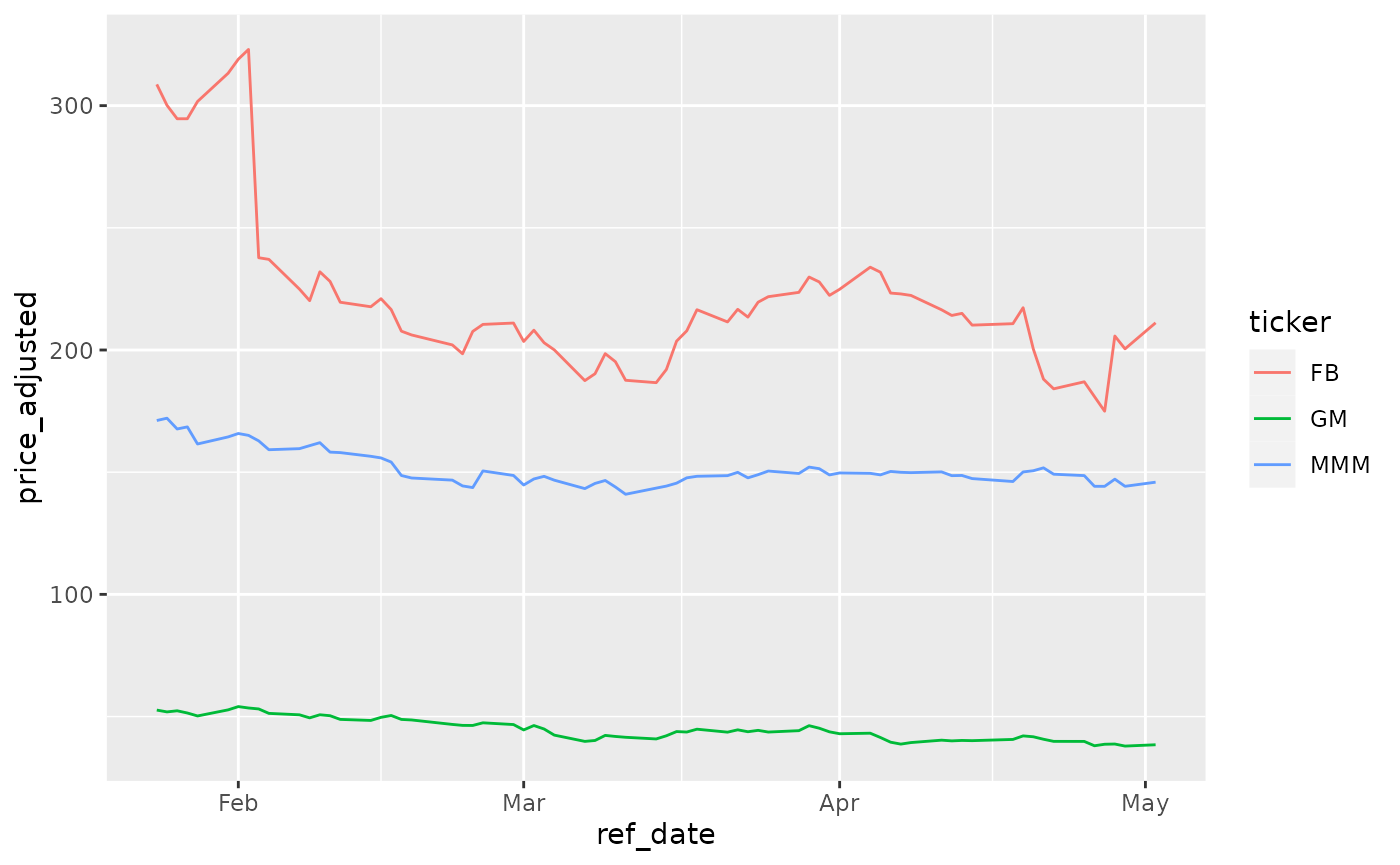
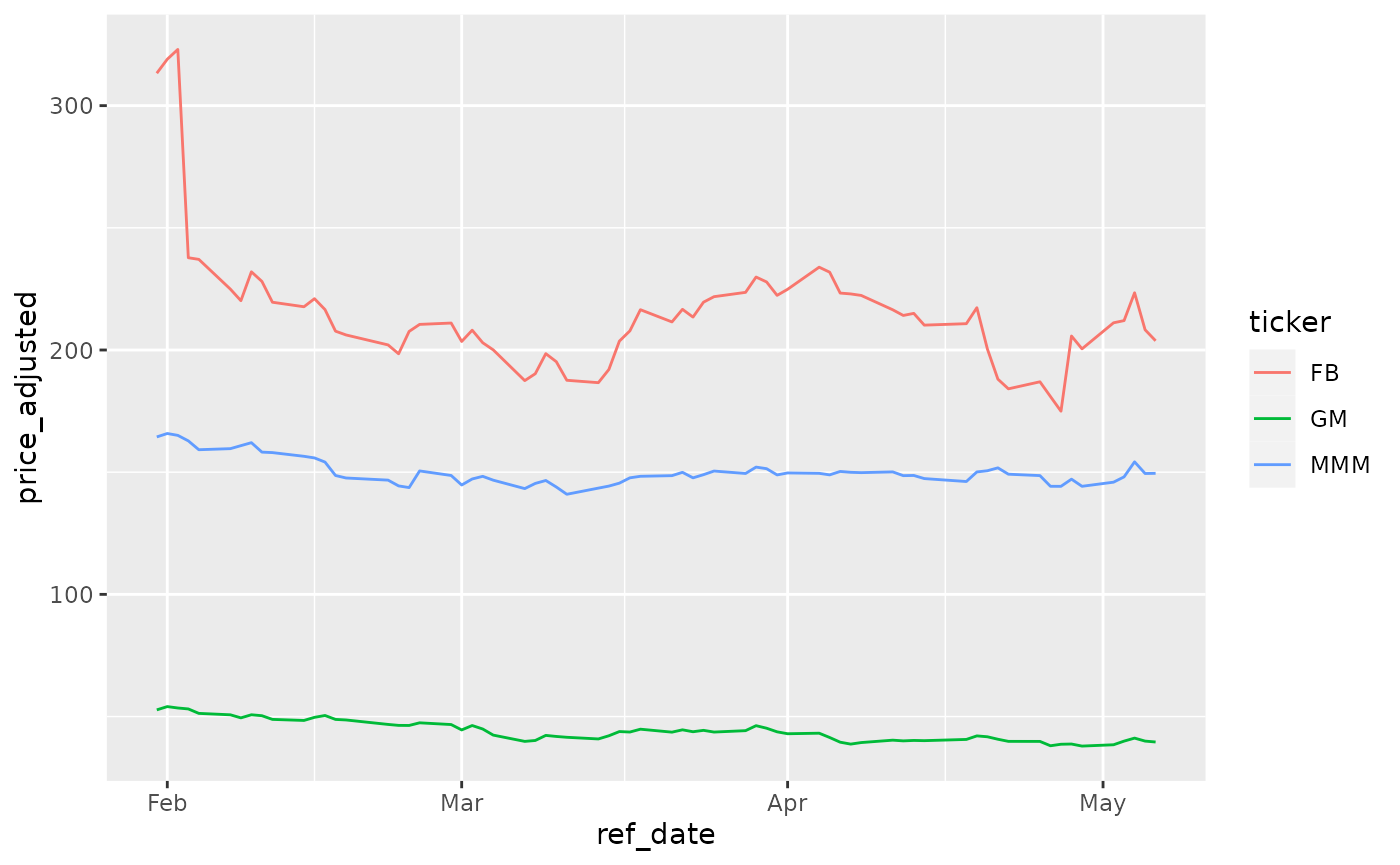
Deploying to gh-pages from @ msperlin/yfR@2e236b8766b813a72aebbd808d26d2148c5c2597 🚀

diff --git a/articles/yf-vignette.html b/articles/yf-vignette.html
@@ -81,7 +81,7 @@
       <img src="../logo.png" class="logo" alt=""><h1>Using yfR</h1>
                         <h4 data-toc-skip class="author">Marcelo Perlin</h4>
             
-            <h4 data-toc-skip class="date">2022-05-03</h4>
+            <h4 data-toc-skip class="date">2022-05-09</h4>
       
       <small class="dont-index">Source: <a href="https://github.com/msperlin/yfR/blob/HEAD/vignettes/yf-vignette.Rmd" class="external-link"><code>vignettes/yf-vignette.Rmd</code></a></small>
       <div class="d-none name"><code>yf-vignette.Rmd</code></div>
@@ -108,14 +108,14 @@
                      first_date <span class="op">=</span> <span class="va">first_date</span>,
                      last_date <span class="op">=</span> <span class="va">last_date</span><span class="op">)</span></code></pre></div>
 <pre><code><span class="co">## </span></code></pre>
-<pre><code><span class="co">## ── <span style="font-weight: bold;">Running yfR for 1 stocks | 2022-04-03 --&gt; 2022-05-03 (30 days)</span> ──</span></code></pre>
+<pre><code><span class="co">## ── <span style="font-weight: bold;">Running yfR for 1 stocks | 2022-04-09 --&gt; 2022-05-09 (30 days)</span> ──</span></code></pre>
 <pre><code><span class="co">## </span></code></pre>
 <pre><code><span class="co">## <span style="color: #00BBBB;">ℹ</span> Downloading data for benchmark ticker ^GSPC</span></code></pre>
 <pre><code><span class="co">## <span style="color: #00BBBB;">ℹ</span> (1/1) Fetching data for FB</span></code></pre>
 <pre><code><span class="co">## <span style="color: #BBBB00;">!</span>  - not cached</span></code></pre>
 <pre><code><span class="co">## <span style="color: #00BB00;">✔</span>  - cache saved successfully</span></code></pre>
-<pre><code><span class="co">## <span style="color: #00BB00;">✔</span>  - got 20 valid rows (2022-04-04 --&gt; 2022-05-02)</span></code></pre>
-<pre><code><span class="co">## <span style="color: #00BB00;">✔</span>  - got 100% of valid prices -- Nice!</span></code></pre>
+<pre><code><span class="co">## <span style="color: #00BB00;">✔</span>  - got 19 valid rows (2022-04-11 --&gt; 2022-05-06)</span></code></pre>
+<pre><code><span class="co">## <span style="color: #00BB00;">✔</span>  - got 100% of valid prices -- Time for some tea?</span></code></pre>
 <pre><code><span class="co">## <span style="color: #00BBBB;">ℹ</span> Binding price data</span></code></pre>
 <div class="sourceCode" id="cb12"><pre class="downlit sourceCode r">
 <code class="sourceCode R"><span class="co"># output is a tibble with data</span>
@@ -123,12 +123,12 @@
 <pre><code><span class="co">## <span style="color: #949494;"># A tibble: 6 × 11</span></span>
 <span class="co">##   ticker ref_date   price_open price_high price_low price_close   volume</span>
 <span class="co">##   <span style="color: #949494; font-style: italic;">&lt;chr&gt;</span>  <span style="color: #949494; font-style: italic;">&lt;date&gt;</span>          <span style="color: #949494; font-style: italic;">&lt;dbl&gt;</span>      <span style="color: #949494; font-style: italic;">&lt;dbl&gt;</span>     <span style="color: #949494; font-style: italic;">&lt;dbl&gt;</span>       <span style="color: #949494; font-style: italic;">&lt;dbl&gt;</span>    <span style="color: #949494; font-style: italic;">&lt;dbl&gt;</span></span>
-<span class="co">## <span style="color: #BCBCBC;">1</span> FB     2022-04-04       226.       234.      226.        234. 28<span style="text-decoration: underline;">054</span>800</span>
-<span class="co">## <span style="color: #BCBCBC;">2</span> FB     2022-04-05       234.       237.      231.        232. 29<span style="text-decoration: underline;">727</span>200</span>
-<span class="co">## <span style="color: #BCBCBC;">3</span> FB     2022-04-06       227.       229.      221.        223. 28<span style="text-decoration: underline;">995</span>100</span>
-<span class="co">## <span style="color: #BCBCBC;">4</span> FB     2022-04-07       224.       226.      219.        223. 21<span style="text-decoration: underline;">037</span>200</span>
-<span class="co">## <span style="color: #BCBCBC;">5</span> FB     2022-04-08       222.       225.      220.        222. 18<span style="text-decoration: underline;">375</span>700</span>
-<span class="co">## <span style="color: #BCBCBC;">6</span> FB     2022-04-11       218.       221.      215.        216. 20<span style="text-decoration: underline;">516</span>600</span>
+<span class="co">## <span style="color: #BCBCBC;">1</span> FB     2022-04-11       218.       221.      215.        216. 20<span style="text-decoration: underline;">516</span>600</span>
+<span class="co">## <span style="color: #BCBCBC;">2</span> FB     2022-04-12       220.       222.      213.        214. 20<span style="text-decoration: underline;">128</span>800</span>
+<span class="co">## <span style="color: #BCBCBC;">3</span> FB     2022-04-13       212.       217.      211.        215. 19<span style="text-decoration: underline;">231</span>800</span>
+<span class="co">## <span style="color: #BCBCBC;">4</span> FB     2022-04-14       215.       215.      210         210. 18<span style="text-decoration: underline;">379</span>500</span>
+<span class="co">## <span style="color: #BCBCBC;">5</span> FB     2022-04-18       210        213.      208.        211. 16<span style="text-decoration: underline;">580</span>800</span>
+<span class="co">## <span style="color: #BCBCBC;">6</span> FB     2022-04-19       211.       218.      209         217. 20<span style="text-decoration: underline;">089</span>900</span>
 <span class="co">## <span style="color: #949494;"># … with 4 more variables: price_adjusted &lt;dbl&gt;, ret_adjusted_prices &lt;dbl&gt;,</span></span>
 <span class="co">## <span style="color: #949494;">#   ret_closing_prices &lt;dbl&gt;, cumret_adjusted_prices &lt;dbl&gt;</span></span></code></pre>
 </div>
@@ -147,24 +147,24 @@
                      first_date <span class="op">=</span> <span class="va">first_date</span>,
                      last_date <span class="op">=</span> <span class="va">last_date</span><span class="op">)</span></code></pre></div>
 <pre><code><span class="co">## </span></code></pre>
-<pre><code><span class="co">## ── <span style="font-weight: bold;">Running yfR for 3 stocks | 2022-01-23 --&gt; 2022-05-03 (100 days)</span> ──</span></code></pre>
+<pre><code><span class="co">## ── <span style="font-weight: bold;">Running yfR for 3 stocks | 2022-01-29 --&gt; 2022-05-09 (100 days)</span> ──</span></code></pre>
 <pre><code><span class="co">## </span></code></pre>
 <pre><code><span class="co">## <span style="color: #00BBBB;">ℹ</span> Downloading data for benchmark ticker ^GSPC</span></code></pre>
 <pre><code><span class="co">## <span style="color: #00BBBB;">ℹ</span> (1/3) Fetching data for FB</span></code></pre>
-<pre><code><span class="co">## <span style="color: #00BB00;">✔</span>  - found cache file (2022-04-04 --&gt; 2022-05-02)</span></code></pre>
+<pre><code><span class="co">## <span style="color: #00BB00;">✔</span>  - found cache file (2022-04-11 --&gt; 2022-05-06)</span></code></pre>
 <pre><code><span class="co">## <span style="color: #BBBB00;">!</span>  - need new data (cache doesnt match query)</span></code></pre>
-<pre><code><span class="co">## <span style="color: #00BB00;">✔</span>  - got 69 valid rows (2022-01-24 --&gt; 2022-05-02)</span></code></pre>
-<pre><code><span class="co">## <span style="color: #00BB00;">✔</span>  - got 100% of valid prices -- Well done runner!</span></code></pre>
+<pre><code><span class="co">## <span style="color: #00BB00;">✔</span>  - got 68 valid rows (2022-01-31 --&gt; 2022-05-06)</span></code></pre>
+<pre><code><span class="co">## <span style="color: #00BB00;">✔</span>  - got 100% of valid prices -- Youre doing good!</span></code></pre>
 <pre><code><span class="co">## <span style="color: #00BBBB;">ℹ</span> (2/3) Fetching data for GM</span></code></pre>
 <pre><code><span class="co">## <span style="color: #BBBB00;">!</span>  - not cached</span></code></pre>
 <pre><code><span class="co">## <span style="color: #00BB00;">✔</span>  - cache saved successfully</span></code></pre>
-<pre><code><span class="co">## <span style="color: #00BB00;">✔</span>  - got 69 valid rows (2022-01-24 --&gt; 2022-05-02)</span></code></pre>
-<pre><code><span class="co">## <span style="color: #00BB00;">✔</span>  - got 100% of valid prices -- Good job runner!</span></code></pre>
+<pre><code><span class="co">## <span style="color: #00BB00;">✔</span>  - got 68 valid rows (2022-01-31 --&gt; 2022-05-06)</span></code></pre>
+<pre><code><span class="co">## <span style="color: #00BB00;">✔</span>  - got 100% of valid prices -- All OK!</span></code></pre>
 <pre><code><span class="co">## <span style="color: #00BBBB;">ℹ</span> (3/3) Fetching data for MMM</span></code></pre>
 <pre><code><span class="co">## <span style="color: #BBBB00;">!</span>  - not cached</span></code></pre>
 <pre><code><span class="co">## <span style="color: #00BB00;">✔</span>  - cache saved successfully</span></code></pre>
-<pre><code><span class="co">## <span style="color: #00BB00;">✔</span>  - got 69 valid rows (2022-01-24 --&gt; 2022-05-02)</span></code></pre>
-<pre><code><span class="co">## <span style="color: #00BB00;">✔</span>  - got 100% of valid prices -- Got it!</span></code></pre>
+<pre><code><span class="co">## <span style="color: #00BB00;">✔</span>  - got 68 valid rows (2022-01-31 --&gt; 2022-05-06)</span></code></pre>
+<pre><code><span class="co">## <span style="color: #00BB00;">✔</span>  - got 100% of valid prices -- Time for some tea?</span></code></pre>
 <pre><code><span class="co">## <span style="color: #00BBBB;">ℹ</span> Binding price data</span></code></pre>
 <div class="sourceCode" id="cb35"><pre class="downlit sourceCode r">
 <code class="sourceCode R"><span class="va">p</span> <span class="op">&lt;-</span> <span class="fu"><a href="https://ggplot2.tidyverse.org/reference/ggplot.html" class="external-link">ggplot</a></span><span class="op">(</span><span class="va">df_yf_multiple</span>, <span class="fu"><a href="https://ggplot2.tidyverse.org/reference/aes.html" class="external-link">aes</a></span><span class="op">(</span>x <span class="op">=</span> <span class="va">ref_date</span>, y <span class="op">=</span> <span class="va">price_adjusted</span>,
@@ -210,14 +210,14 @@
                          freq_data <span class="op">=</span> <span class="st">'daily'</span><span class="op">)</span> <span class="op"><a href="../reference/pipe.html">%&gt;%</a></span>
   <span class="fu"><a href="https://dplyr.tidyverse.org/reference/mutate.html" class="external-link">mutate</a></span><span class="op">(</span>freq <span class="op">=</span> <span class="st">'daily'</span><span class="op">)</span></code></pre></div>
 <pre><code><span class="co">## </span></code></pre>
-<pre><code><span class="co">## ── <span style="font-weight: bold;">Running yfR for 1 stocks | 2010-01-01 --&gt; 2022-05-03 (4505 days)</span> ──</span></code></pre>
+<pre><code><span class="co">## ── <span style="font-weight: bold;">Running yfR for 1 stocks | 2010-01-01 --&gt; 2022-05-09 (4511 days)</span> ──</span></code></pre>
 <pre><code><span class="co">## </span></code></pre>
 <pre><code><span class="co">## <span style="color: #00BBBB;">ℹ</span> Downloading data for benchmark ticker ^GSPC</span></code></pre>
 <pre><code><span class="co">## <span style="color: #00BBBB;">ℹ</span> (1/1) Fetching data for GE</span></code></pre>
 <pre><code><span class="co">## <span style="color: #BBBB00;">!</span>  - not cached</span></code></pre>
 <pre><code><span class="co">## <span style="color: #00BB00;">✔</span>  - cache saved successfully</span></code></pre>
-<pre><code><span class="co">## <span style="color: #00BB00;">✔</span>  - got 3104 valid rows (2010-01-04 --&gt; 2022-05-02)</span></code></pre>
-<pre><code><span class="co">## <span style="color: #00BB00;">✔</span>  - got 100% of valid prices -- All OK!</span></code></pre>
+<pre><code><span class="co">## <span style="color: #00BB00;">✔</span>  - got 3108 valid rows (2010-01-04 --&gt; 2022-05-06)</span></code></pre>
+<pre><code><span class="co">## <span style="color: #00BB00;">✔</span>  - got 100% of valid prices -- Good stuff!</span></code></pre>
 <pre><code><span class="co">## <span style="color: #00BBBB;">ℹ</span> Binding price data</span></code></pre>
 <div class="sourceCode" id="cb52"><pre class="downlit sourceCode r">
 <code class="sourceCode R"><span class="va">df_weekly</span> <span class="op">&lt;-</span> <span class="fu"><a href="../reference/yf_get.html">yf_get</a></span><span class="op">(</span>tickers <span class="op">=</span> <span class="va">my_ticker</span>, 
@@ -225,13 +225,13 @@
                          freq_data <span class="op">=</span> <span class="st">'weekly'</span><span class="op">)</span> <span class="op"><a href="../reference/pipe.html">%&gt;%</a></span>
   <span class="fu"><a href="https://dplyr.tidyverse.org/reference/mutate.html" class="external-link">mutate</a></span><span class="op">(</span>freq <span class="op">=</span> <span class="st">'weekly'</span><span class="op">)</span></code></pre></div>
 <pre><code><span class="co">## </span></code></pre>
-<pre><code><span class="co">## ── <span style="font-weight: bold;">Running yfR for 1 stocks | 2010-01-01 --&gt; 2022-05-03 (4505 days)</span> ──</span></code></pre>
+<pre><code><span class="co">## ── <span style="font-weight: bold;">Running yfR for 1 stocks | 2010-01-01 --&gt; 2022-05-09 (4511 days)</span> ──</span></code></pre>
 <pre><code><span class="co">## </span></code></pre>
 <pre><code><span class="co">## <span style="color: #00BBBB;">ℹ</span> Downloading data for benchmark ticker ^GSPC</span></code></pre>
 <pre><code><span class="co">## <span style="color: #00BBBB;">ℹ</span> (1/1) Fetching data for GE</span></code></pre>
-<pre><code><span class="co">## <span style="color: #00BB00;">✔</span>  - found cache file (2010-01-04 --&gt; 2022-05-02)</span></code></pre>
-<pre><code><span class="co">## <span style="color: #00BB00;">✔</span>  - got 3104 valid rows (2010-01-04 --&gt; 2022-05-02)</span></code></pre>
-<pre><code><span class="co">## <span style="color: #00BB00;">✔</span>  - got 100% of valid prices -- Good stuff!</span></code></pre>
+<pre><code><span class="co">## <span style="color: #00BB00;">✔</span>  - found cache file (2010-01-04 --&gt; 2022-05-06)</span></code></pre>
+<pre><code><span class="co">## <span style="color: #00BB00;">✔</span>  - got 3108 valid rows (2010-01-04 --&gt; 2022-05-06)</span></code></pre>
+<pre><code><span class="co">## <span style="color: #00BB00;">✔</span>  - got 100% of valid prices -- Got it!</span></code></pre>
 <pre><code><span class="co">## <span style="color: #00BBBB;">ℹ</span> Binding price data</span></code></pre>
 <div class="sourceCode" id="cb62"><pre class="downlit sourceCode r">
 <code class="sourceCode R"><span class="va">df_monthly</span> <span class="op">&lt;-</span> <span class="fu"><a href="../reference/yf_get.html">yf_get</a></span><span class="op">(</span>tickers <span class="op">=</span> <span class="va">my_ticker</span>, 
@@ -239,13 +239,13 @@
                          freq_data <span class="op">=</span> <span class="st">'monthly'</span><span class="op">)</span> <span class="op"><a href="../reference/pipe.html">%&gt;%</a></span>
   <span class="fu"><a href="https://dplyr.tidyverse.org/reference/mutate.html" class="external-link">mutate</a></span><span class="op">(</span>freq <span class="op">=</span> <span class="st">'monthly'</span><span class="op">)</span></code></pre></div>
 <pre><code><span class="co">## </span></code></pre>
-<pre><code><span class="co">## ── <span style="font-weight: bold;">Running yfR for 1 stocks | 2010-01-01 --&gt; 2022-05-03 (4505 days)</span> ──</span></code></pre>
+<pre><code><span class="co">## ── <span style="font-weight: bold;">Running yfR for 1 stocks | 2010-01-01 --&gt; 2022-05-09 (4511 days)</span> ──</span></code></pre>
 <pre><code><span class="co">## </span></code></pre>
 <pre><code><span class="co">## <span style="color: #00BBBB;">ℹ</span> Downloading data for benchmark ticker ^GSPC</span></code></pre>
 <pre><code><span class="co">## <span style="color: #00BBBB;">ℹ</span> (1/1) Fetching data for GE</span></code></pre>
-<pre><code><span class="co">## <span style="color: #00BB00;">✔</span>  - found cache file (2010-01-04 --&gt; 2022-05-02)</span></code></pre>
-<pre><code><span class="co">## <span style="color: #00BB00;">✔</span>  - got 3104 valid rows (2010-01-04 --&gt; 2022-05-02)</span></code></pre>
-<pre><code><span class="co">## <span style="color: #00BB00;">✔</span>  - got 100% of valid prices -- Youre doing good!</span></code></pre>
+<pre><code><span class="co">## <span style="color: #00BB00;">✔</span>  - found cache file (2010-01-04 --&gt; 2022-05-06)</span></code></pre>
+<pre><code><span class="co">## <span style="color: #00BB00;">✔</span>  - got 3108 valid rows (2010-01-04 --&gt; 2022-05-06)</span></code></pre>
+<pre><code><span class="co">## <span style="color: #00BB00;">✔</span>  - got 100% of valid prices -- Looking good!</span></code></pre>
 <pre><code><span class="co">## <span style="color: #00BBBB;">ℹ</span> Binding price data</span></code></pre>
 <div class="sourceCode" id="cb72"><pre class="downlit sourceCode r">
 <code class="sourceCode R"><span class="va">df_yearly</span> <span class="op">&lt;-</span> <span class="fu"><a href="../reference/yf_get.html">yf_get</a></span><span class="op">(</span>tickers <span class="op">=</span> <span class="va">my_ticker</span>, 
@@ -253,12 +253,12 @@
                          freq_data <span class="op">=</span> <span class="st">'yearly'</span><span class="op">)</span> <span class="op"><a href="../reference/pipe.html">%&gt;%</a></span>
   <span class="fu"><a href="https://dplyr.tidyverse.org/reference/mutate.html" class="external-link">mutate</a></span><span class="op">(</span>freq <span class="op">=</span> <span class="st">'yearly'</span><span class="op">)</span></code></pre></div>
 <pre><code><span class="co">## </span></code></pre>
-<pre><code><span class="co">## ── <span style="font-weight: bold;">Running yfR for 1 stocks | 2010-01-01 --&gt; 2022-05-03 (4505 days)</span> ──</span></code></pre>
+<pre><code><span class="co">## ── <span style="font-weight: bold;">Running yfR for 1 stocks | 2010-01-01 --&gt; 2022-05-09 (4511 days)</span> ──</span></code></pre>
 <pre><code><span class="co">## </span></code></pre>
 <pre><code><span class="co">## <span style="color: #00BBBB;">ℹ</span> Downloading data for benchmark ticker ^GSPC</span></code></pre>
 <pre><code><span class="co">## <span style="color: #00BBBB;">ℹ</span> (1/1) Fetching data for GE</span></code></pre>
-<pre><code><span class="co">## <span style="color: #00BB00;">✔</span>  - found cache file (2010-01-04 --&gt; 2022-05-02)</span></code></pre>
-<pre><code><span class="co">## <span style="color: #00BB00;">✔</span>  - got 3104 valid rows (2010-01-04 --&gt; 2022-05-02)</span></code></pre>
+<pre><code><span class="co">## <span style="color: #00BB00;">✔</span>  - found cache file (2010-01-04 --&gt; 2022-05-06)</span></code></pre>
+<pre><code><span class="co">## <span style="color: #00BB00;">✔</span>  - got 3108 valid rows (2010-01-04 --&gt; 2022-05-06)</span></code></pre>
 <pre><code><span class="co">## <span style="color: #00BB00;">✔</span>  - got 100% of valid prices -- Looking good!</span></code></pre>
 <pre><code><span class="co">## <span style="color: #00BBBB;">ℹ</span> Binding price data</span></code></pre>
 <div class="sourceCode" id="cb82"><pre class="downlit sourceCode r">
@@ -296,21 +296,21 @@
                      first_date <span class="op">=</span> <span class="va">first_date</span>,
                      last_date <span class="op">=</span> <span class="va">last_date</span><span class="op">)</span></code></pre></div>
 <pre><code><span class="co">## </span></code></pre>
-<pre><code><span class="co">## ── <span style="font-weight: bold;">Running yfR for 3 stocks | 2022-01-23 --&gt; 2022-05-03 (100 days)</span> ──</span></code></pre>
+<pre><code><span class="co">## ── <span style="font-weight: bold;">Running yfR for 3 stocks | 2022-01-29 --&gt; 2022-05-09 (100 days)</span> ──</span></code></pre>
 <pre><code><span class="co">## </span></code></pre>
 <pre><code><span class="co">## <span style="color: #00BBBB;">ℹ</span> Downloading data for benchmark ticker ^GSPC</span></code></pre>
 <pre><code><span class="co">## <span style="color: #00BBBB;">ℹ</span> (1/3) Fetching data for FB</span></code></pre>
-<pre><code><span class="co">## <span style="color: #00BB00;">✔</span>  - found cache file (2022-01-24 --&gt; 2022-05-02)</span></code></pre>
-<pre><code><span class="co">## <span style="color: #00BB00;">✔</span>  - got 69 valid rows (2022-01-24 --&gt; 2022-05-02)</span></code></pre>
-<pre><code><span class="co">## <span style="color: #00BB00;">✔</span>  - got 100% of valid prices -- Good stuff!</span></code></pre>
+<pre><code><span class="co">## <span style="color: #00BB00;">✔</span>  - found cache file (2022-01-31 --&gt; 2022-05-06)</span></code></pre>
+<pre><code><span class="co">## <span style="color: #00BB00;">✔</span>  - got 68 valid rows (2022-01-31 --&gt; 2022-05-06)</span></code></pre>
+<pre><code><span class="co">## <span style="color: #00BB00;">✔</span>  - got 100% of valid prices -- Good job runner!</span></code></pre>
 <pre><code><span class="co">## <span style="color: #00BBBB;">ℹ</span> (2/3) Fetching data for GM</span></code></pre>
-<pre><code><span class="co">## <span style="color: #00BB00;">✔</span>  - found cache file (2022-01-24 --&gt; 2022-05-02)</span></code></pre>
-<pre><code><span class="co">## <span style="color: #00BB00;">✔</span>  - got 69 valid rows (2022-01-24 --&gt; 2022-05-02)</span></code></pre>
-<pre><code><span class="co">## <span style="color: #00BB00;">✔</span>  - got 100% of valid prices -- Got it!</span></code></pre>
+<pre><code><span class="co">## <span style="color: #00BB00;">✔</span>  - found cache file (2022-01-31 --&gt; 2022-05-06)</span></code></pre>
+<pre><code><span class="co">## <span style="color: #00BB00;">✔</span>  - got 68 valid rows (2022-01-31 --&gt; 2022-05-06)</span></code></pre>
+<pre><code><span class="co">## <span style="color: #00BB00;">✔</span>  - got 100% of valid prices -- You got it runner!</span></code></pre>
 <pre><code><span class="co">## <span style="color: #00BBBB;">ℹ</span> (3/3) Fetching data for MMM</span></code></pre>
-<pre><code><span class="co">## <span style="color: #00BB00;">✔</span>  - found cache file (2022-01-24 --&gt; 2022-05-02)</span></code></pre>
-<pre><code><span class="co">## <span style="color: #00BB00;">✔</span>  - got 69 valid rows (2022-01-24 --&gt; 2022-05-02)</span></code></pre>
-<pre><code><span class="co">## <span style="color: #00BB00;">✔</span>  - got 100% of valid prices -- Well done runner!</span></code></pre>
+<pre><code><span class="co">## <span style="color: #00BB00;">✔</span>  - found cache file (2022-01-31 --&gt; 2022-05-06)</span></code></pre>
+<pre><code><span class="co">## <span style="color: #00BB00;">✔</span>  - got 68 valid rows (2022-01-31 --&gt; 2022-05-06)</span></code></pre>
+<pre><code><span class="co">## <span style="color: #00BB00;">✔</span>  - got 100% of valid prices -- Good stuff!</span></code></pre>
 <pre><code><span class="co">## <span style="color: #00BBBB;">ℹ</span> Binding price data</span></code></pre>
 <div class="sourceCode" id="cb101"><pre class="downlit sourceCode r">
 <code class="sourceCode R"><span class="va">l_wide</span> <span class="op">&lt;-</span> <span class="fu"><a href="../reference/yf_convert_to_wide.html">yf_convert_to_wide</a></span><span class="op">(</span><span class="va">df_yf_multiple</span><span class="op">)</span>
@@ -321,12 +321,12 @@
 <pre><code><span class="co">## <span style="color: #949494;"># A tibble: 6 × 4</span></span>
 <span class="co">##   ref_date      FB    GM   MMM</span>
 <span class="co">##   <span style="color: #949494; font-style: italic;">&lt;date&gt;</span>     <span style="color: #949494; font-style: italic;">&lt;dbl&gt;</span> <span style="color: #949494; font-style: italic;">&lt;dbl&gt;</span> <span style="color: #949494; font-style: italic;">&lt;dbl&gt;</span></span>
-<span class="co">## <span style="color: #BCBCBC;">1</span> 2022-01-24  309.  52.6  171.</span>
-<span class="co">## <span style="color: #BCBCBC;">2</span> 2022-01-25  300.  51.9  172.</span>
-<span class="co">## <span style="color: #BCBCBC;">3</span> 2022-01-26  295.  52.3  168.</span>
-<span class="co">## <span style="color: #BCBCBC;">4</span> 2022-01-27  295.  51.5  169.</span>
-<span class="co">## <span style="color: #BCBCBC;">5</span> 2022-01-28  302.  50.2  162.</span>
-<span class="co">## <span style="color: #BCBCBC;">6</span> 2022-01-31  313.  52.7  164.</span></code></pre>
+<span class="co">## <span style="color: #BCBCBC;">1</span> 2022-01-31  313.  52.7  164.</span>
+<span class="co">## <span style="color: #BCBCBC;">2</span> 2022-02-01  319   54.1  166.</span>
+<span class="co">## <span style="color: #BCBCBC;">3</span> 2022-02-02  323   53.5  165.</span>
+<span class="co">## <span style="color: #BCBCBC;">4</span> 2022-02-03  238.  53.1  163.</span>
+<span class="co">## <span style="color: #BCBCBC;">5</span> 2022-02-04  237.  51.3  159.</span>
+<span class="co">## <span style="color: #BCBCBC;">6</span> 2022-02-07  225.  50.7  160.</span></code></pre>
 </div>
 </div>
   </main><aside class="col-md-3"><nav id="toc"><h2>On this page</h2>

diff --git a/reference/yf_collection_get.html b/reference/yf_collection_get.html
@@ -66,7 +66,8 @@ and will download all data from Yahoo Finance using <code><a href="yf_get.html">
   last_date <span class="op">=</span> <span class="fu"><a href="https://rdrr.io/r/base/Sys.time.html" class="external-link">Sys.Date</a></span><span class="op">(</span><span class="op">)</span>,
   do_parallel <span class="op">=</span> <span class="cn">FALSE</span>,
   do_cache <span class="op">=</span> <span class="cn">TRUE</span>,
-  cache_folder <span class="op">=</span> <span class="fu">yf_get_default_cache_folder</span><span class="op">(</span><span class="op">)</span>
+  cache_folder <span class="op">=</span> <span class="fu">yf_get_default_cache_folder</span><span class="op">(</span><span class="op">)</span>,
+  <span class="va">...</span>
 <span class="op">)</span></code></pre></div>
     </div>
 
@@ -88,6 +89,8 @@ Before using parallel, make sure you call function future::plan() first.</p></dd
 <dt>cache_folder</dt>
 <dd><p>Where to save cache files?
 (default = yfR::yf_get_default_cache_folder() )</p></dd>
+<dt>...</dt>
+<dd><p>Other arguments passed to <code><a href="yf_get.html">yf_get</a></code></p></dd>
 </dl></div>
     <div class="section level2">
     <h2 id="value">Value<a class="anchor" aria-label="anchor" href="#value"></a></h2>
